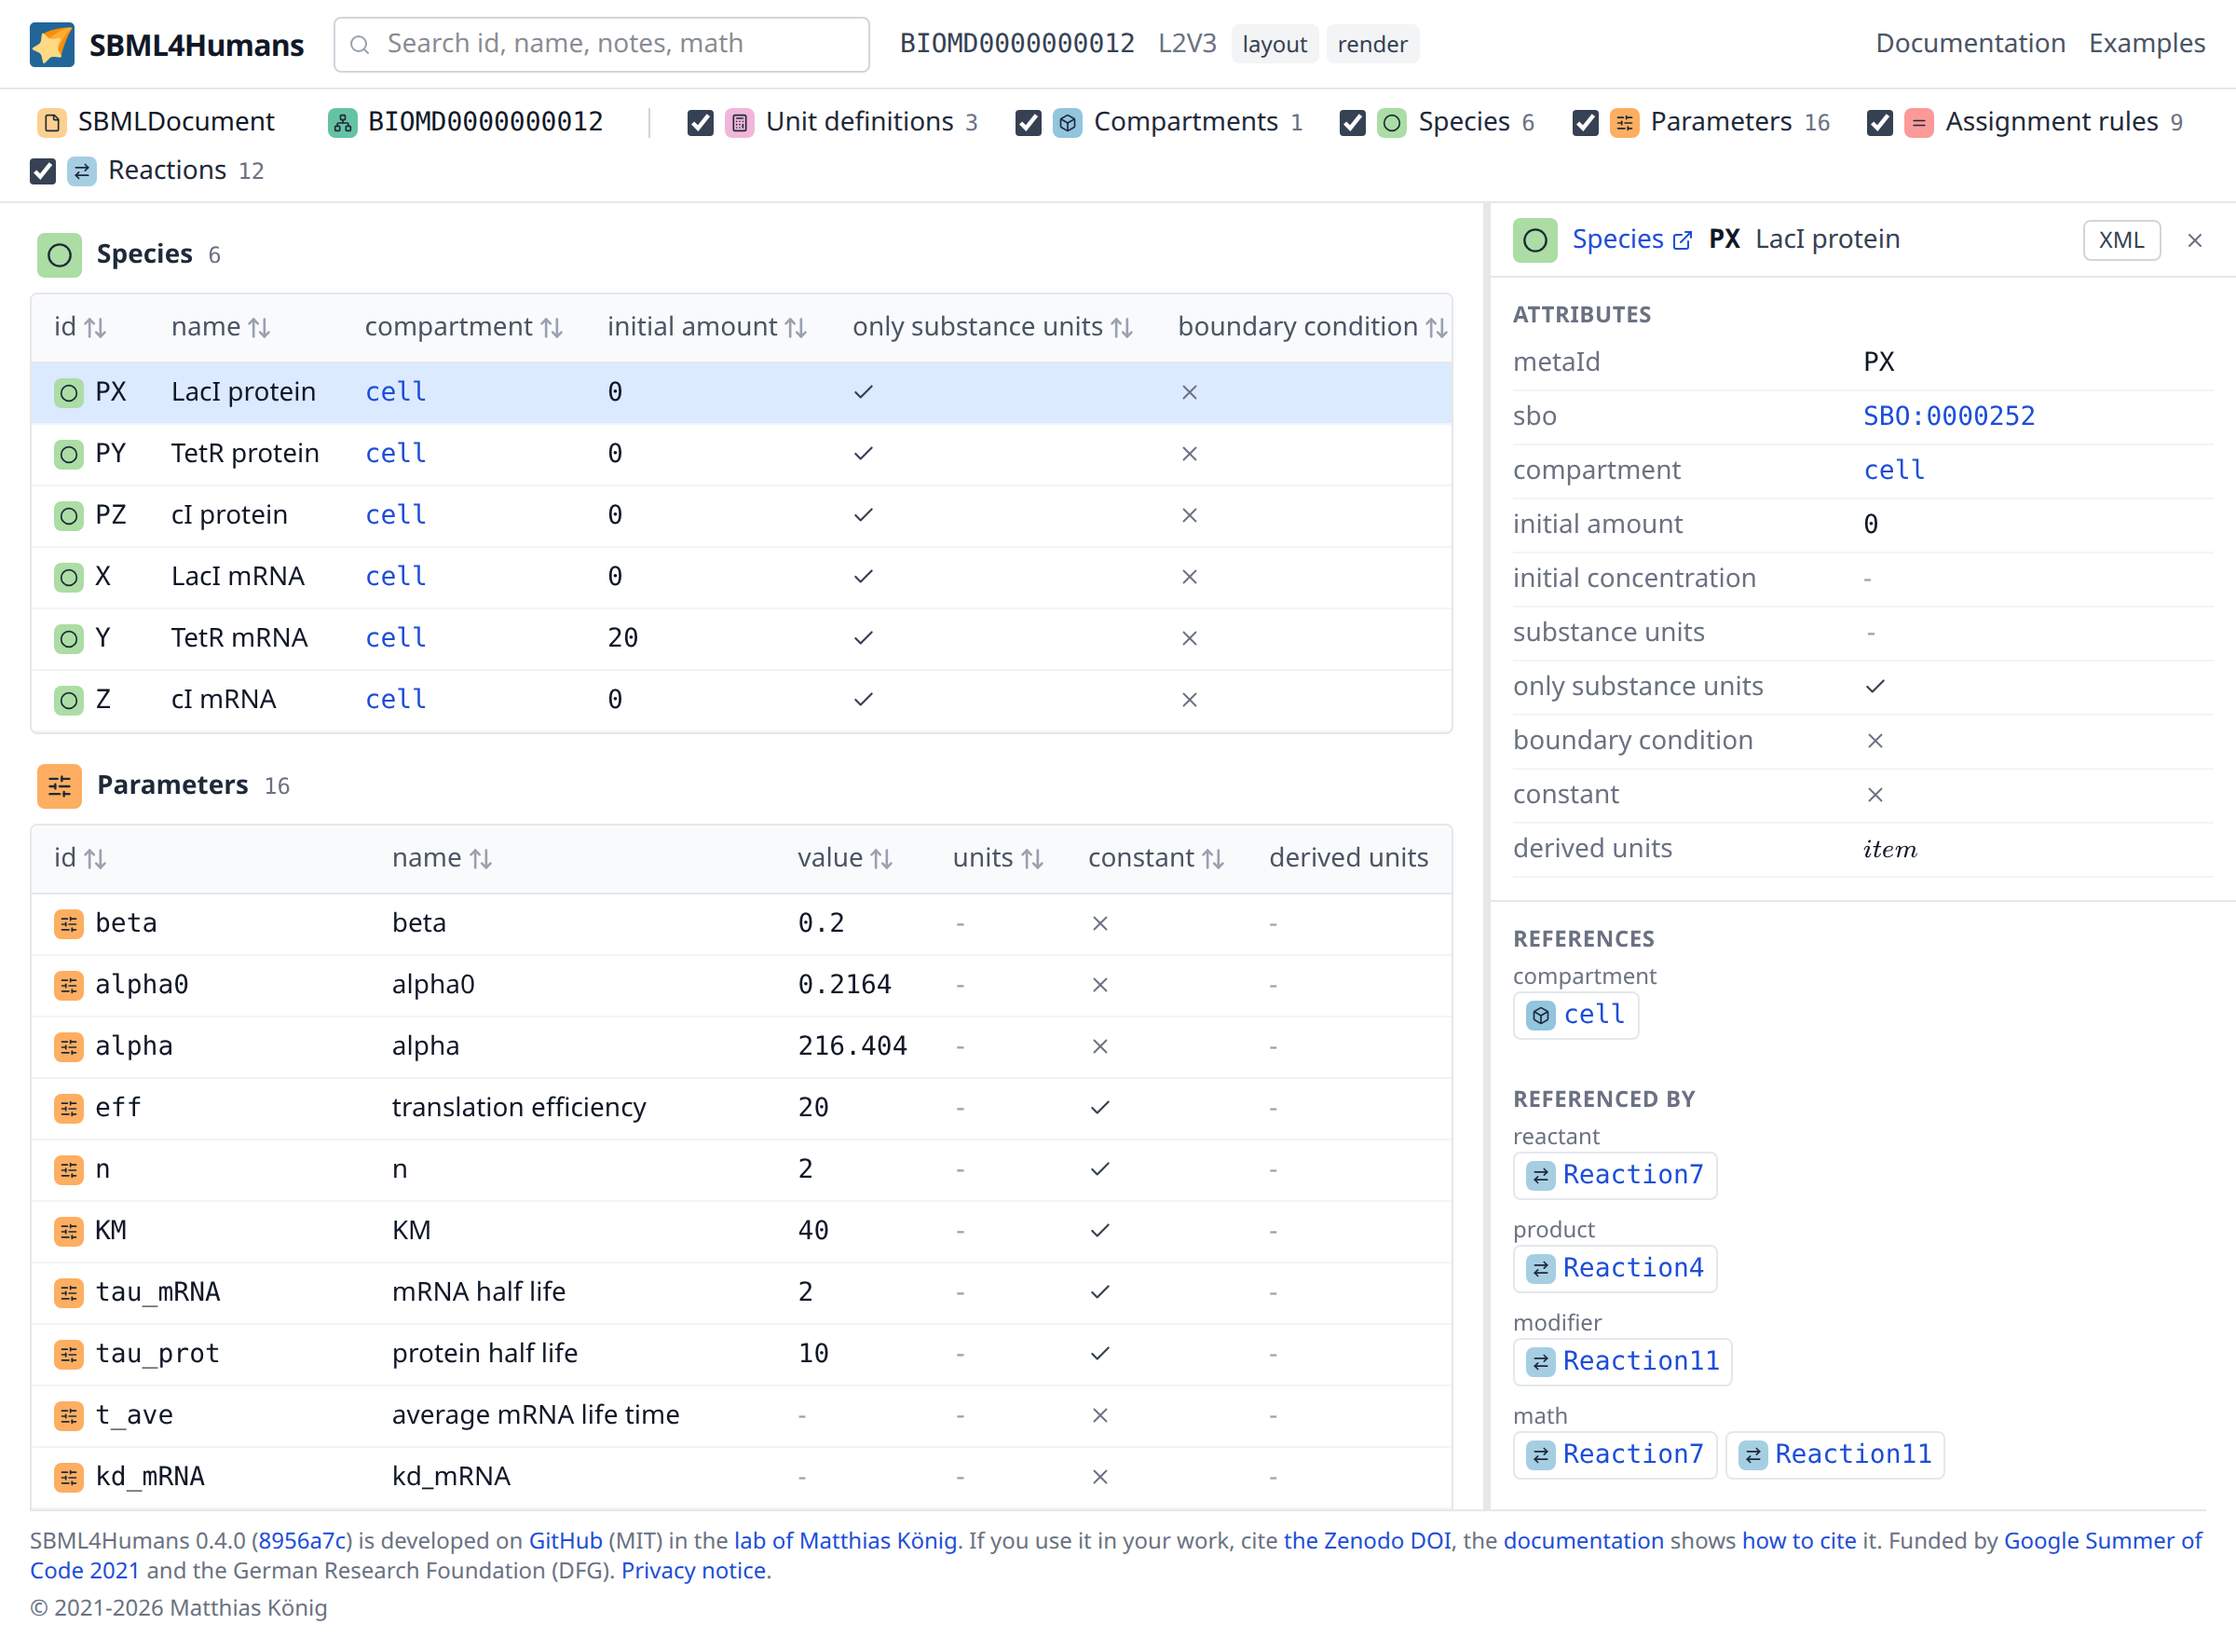
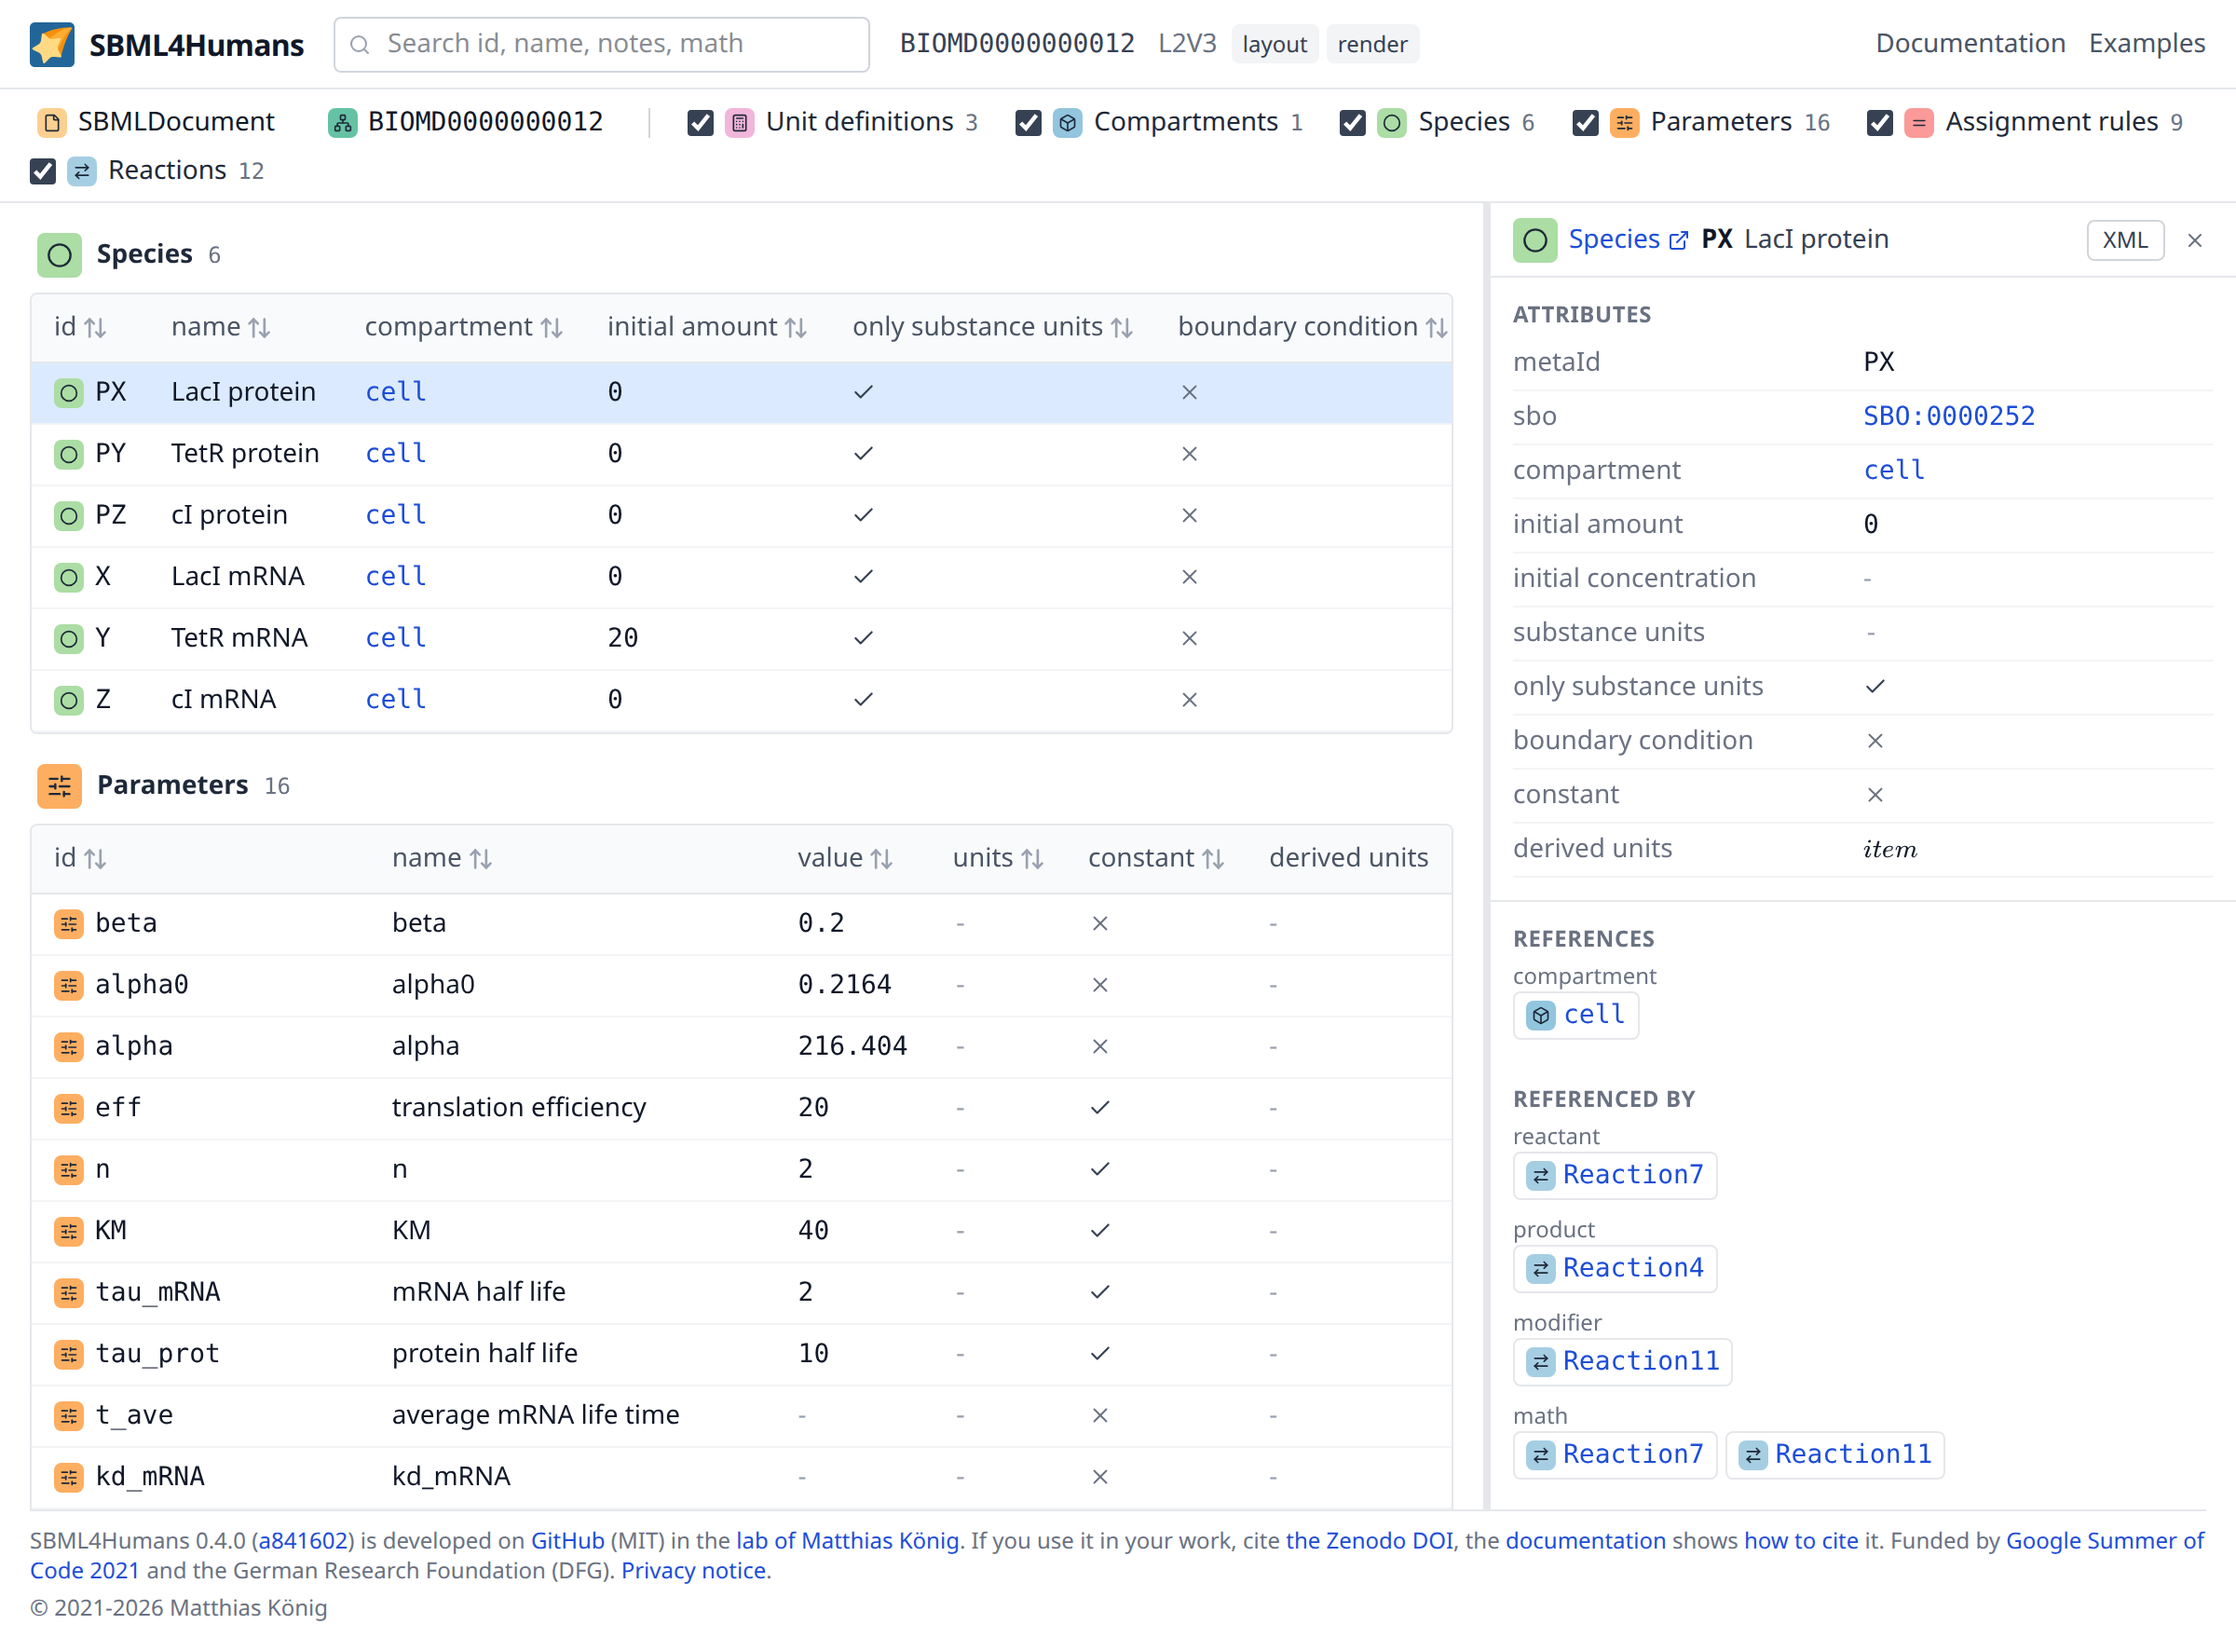
Keep the longest type on one line of the inspector header in the default font of Linux as well
With DejaVu Sans, the default sans font of many Linux systems and of the GitHub runner, User defined constraint component needed 248 px of the 245 px the header left it in a third of a 1440 px window and lost its last letters. The gaps of the header are 6 px instead of 8 px, which gives it the room in every common font.

Claude-Session: https://claude.ai/code/session_01H6NLTR8e7djzBnAwwiXkiU

Changed region(s): [[0.125, 0.9215, 0.9688, 0.9522], [0.6875, 0.1229, 0.8438, 0.1536], [0.9375, 0.1229, 0.9688, 0.1536]]

diff --git a/frontend/tests/e2e/layout.spec.ts b/frontend/tests/e2e/layout.spec.ts
@@ -223,13 +223,15 @@ test("the header of the inspector keeps a long type on one line at a laptop widt
       };
     });
   };
-  for (const width of [1280, 1440]) {
+  for (const width of [1280, 1440, 1600]) {
     const boxes = await layout(width);
     expect(boxes.header).toBe(40);
     expect(boxes.type.height).toBeLessThanOrEqual(20);
     expect(boxes.id.clipped).toBe(false);
     expect(boxes.overflows).toBe(false);
-    // from 1440 px on the type is whole
+    // from 1440 px on the type is whole. The application ships no font of its own, so this holds
+    // for the sans font of the system: DejaVu Sans, the default of many Linux systems and of the
+    // GitHub runner, is the widest of the common ones and needs the tighter gaps of the header
     if (width >= 1440) expect(boxes.type.clipped).toBe(false);
   }
 });

diff --git a/frontend/src/components/inspector/InspectorPanel.vue b/frontend/src/components/inspector/InspectorPanel.vue
@@ -62,7 +62,7 @@ const xmlEmptyMessage = computed(() =>
     whose mark stays and names it on hover; the id of the element keeps its width up to half of
     the header -->
     <header
-      class="flex h-10 shrink-0 items-center gap-2 border-b border-gray-200 px-3 text-sm"
+      class="flex h-10 shrink-0 items-center gap-1.5 border-b border-gray-200 px-3 text-sm"
       data-testid="inspector-header"
     >
       <TypeMark v-if="element.sbmlType" :type="element.sbmlType" size="md" />
